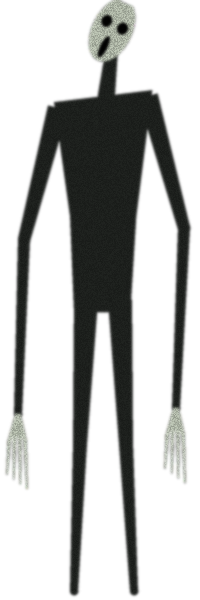
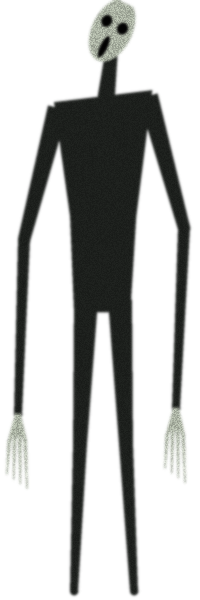
CI on Python 3.12, 3.14 and 3.15, and a check of the launcher through a Python upgrade
- tests run on the Pythons Bazzite moves to; check_app starts the app past its version guard, as the launcher does
- tests/check_launcher.sh: bc250_python.sh through 3.14 -> 3.15 with real installs (rebuild, completing a venv
  missing GPUtil, --run on a Python the app refuses), plus shellcheck on the scripts
- Pillow 13 (the first with packages for 3.15) resizes transparent edges a little differently, which shifted the
  horror figure's grain: grain drawn for every pixel, resize and blur premultiplied; figure.png regenerated
- check_generator compares pictures as shown (transparent parts over black)

Changed region(s): [[0.45, 0.0, 0.69, 0.09], [0.81, 0.66, 0.93, 0.81], [0.03, 0.69, 0.15, 0.78]]

diff --git a/make_theme.py b/make_theme.py
@@ -2972,14 +2972,14 @@ def hr_figure():
     hd.ellipse((hx - 0.018 * W_, hy + 0.012 * H_, hx + 0.018 * W_, hy + 0.05 * H_), fill=hollow)
     head = head.rotate(-HR_FACE_TILT, center=(hx, hy), resample=Image.BICUBIC)
     art.alpha_composite(head)
-    art = art.resize((w, h), Image.LANCZOS).filter(ImageFilter.GaussianBlur(1.1))
+    art = art.convert("RGBa").resize((w, h), Image.LANCZOS).filter(ImageFilter.GaussianBlur(1.1)).convert("RGBA")
     rnd = random.Random(13)  # the camera's grain on it too
     out = art.load()
     for j in range(h):
         for i in range(w):
             r, g, b, a = out[i, j]
-            if a:
-                n = rnd.uniform(0.82, 1.1)
+            n = rnd.uniform(0.82, 1.1)  # drawn for every pixel: one edge pixel more or less (Pillow 12 and 13 resize
+            if a:                       # edges a little differently) must not shift the grain of all the ones after
                 out[i, j] = (min(255, int(r * n)), min(255, int(g * n)), min(255, int(b * n)), a)
     return art
 

diff --git a/tests/check_generator.py b/tests/check_generator.py
@@ -26,10 +26,16 @@ def generate(theme, portrait):
     return os.path.join("res", "themes", THEMES[theme])
 
 
+def seen(path):
+    """A picture as the screen shows it: a sprite's transparent parts over black, whatever colour they hold."""
+    image = Image.open(path).convert("RGBA")
+    return Image.alpha_composite(Image.new("RGBA", image.size, (0, 0, 0, 255)), image).convert("RGB")
+
+
 def same_picture(a, b):
     """Pixels that differ, and the largest difference of one channel."""
     import numpy
-    difference = numpy.asarray(ImageChops.difference(Image.open(a).convert("RGB"), Image.open(b).convert("RGB")))
+    difference = numpy.asarray(ImageChops.difference(seen(a), seen(b)))
     return int(numpy.count_nonzero(difference.any(axis=2))), int(difference.max())
 
 

diff --git a/tests/check_app.py b/tests/check_app.py
@@ -120,6 +120,10 @@ def main():
         os._exit(0 if ok else 1)
 
     threading.Thread(target=verdict, name="verdict", daemon=True).start()
+    # on a Python newer than the app's release accepts, started anyway, as bc250_python.sh --run does on the BC-250
+    import library.pythoncheck as check
+    if sys.platform != "win32" and sys.version_info[:2] > tuple(check.MAX_PYTHON):
+        check.MAX_PYTHON = sys.version_info[:2]
     sys.argv = ["main.py"]
     runpy.run_path("main.py", run_name="__main__")
 

diff --git a/README.md b/README.md
@@ -488,6 +488,11 @@ It fetches turing-smart-screen-python 3.10.0 into `tests/.cache` and runs it on 
 | `check_boot.py` | each boot animation is pixel-exact on the screen, short enough, and hands over cleanly to the dashboard |
 | `check_app.py` | the whole app: the screen shows what every widget meant to draw, with one full-screen transfer only, and the radar's sweep never stalls |
 
+On GitHub, `tests/run.py` runs on Python 3.12, 3.14 and 3.15 (Bazzite moves to each new Python soon after it comes out). A second job lints the shell scripts with `shellcheck` and runs `tests/check_launcher.sh python3.14 python3.15` (Linux only, it installs the real libraries). That script takes `bc250_python.sh` through what an upgrade of the system's Python does to the monitor:
+- the app's `.venv` left with the old version's libraries is rebuilt;
+- a missing library is installed into `.venv` without rebuilding it;
+- `--run` starts an app release that refuses the new Python.
+
 After changing a theme, `python tools/make_previews.py THEME` regenerates its committed files and the README previews (recorded on the same emulated screen, so the GIFs play at the real speed). The radar's tests use saved data around Paris CDG (`tests/fixtures`), never the network.
 
 Also for the BC-250: [bc250-oled](https://github.com/raphaeltournafond/bc250-oled), stats on a tiny I2C OLED wired to the board, no USB.
